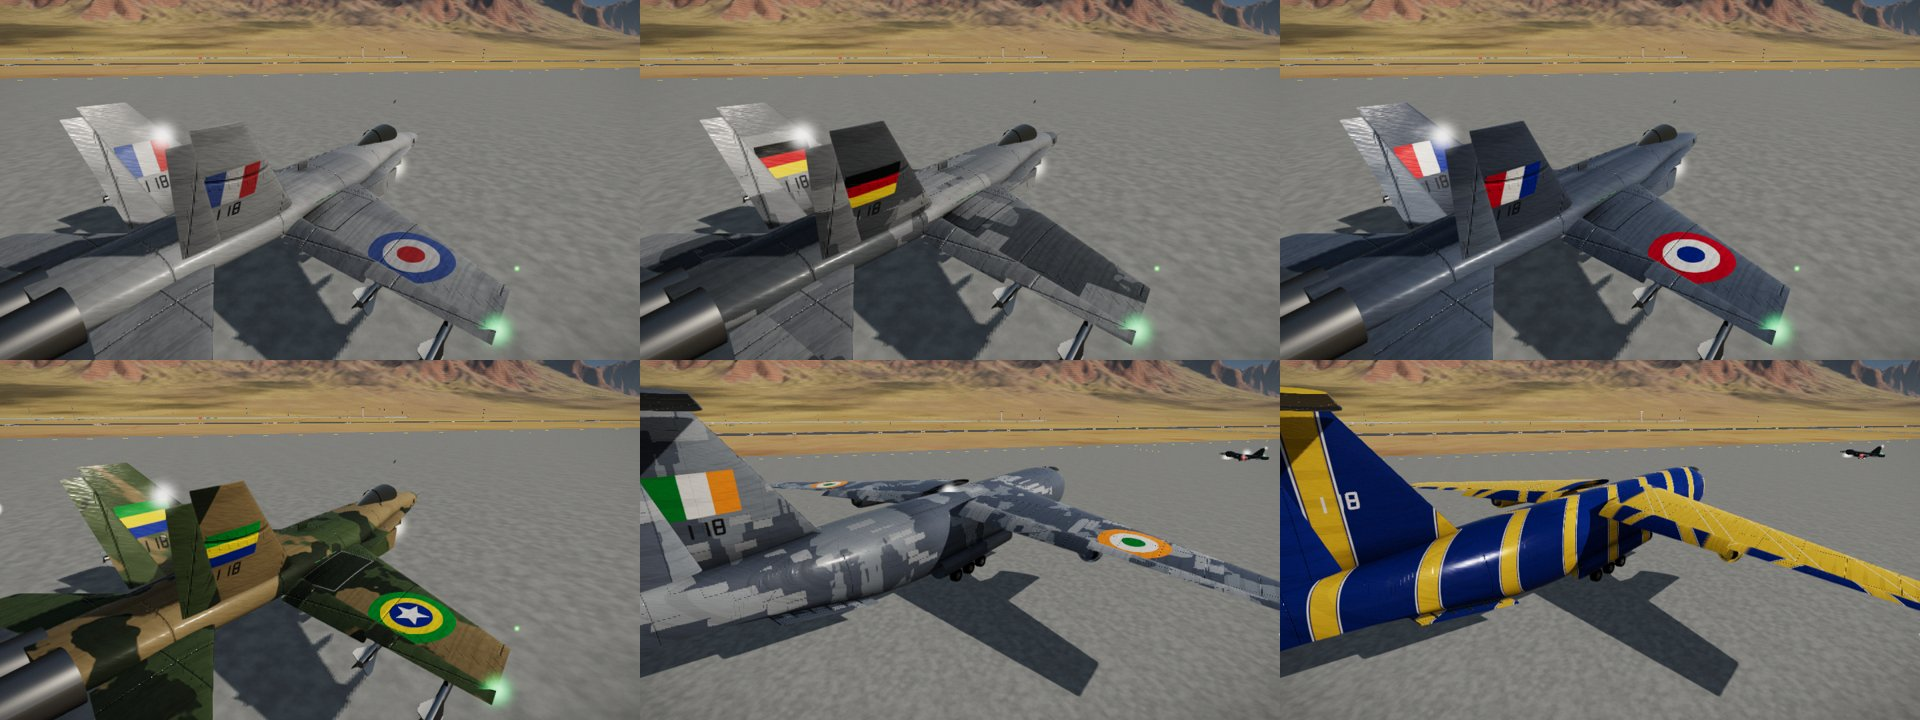
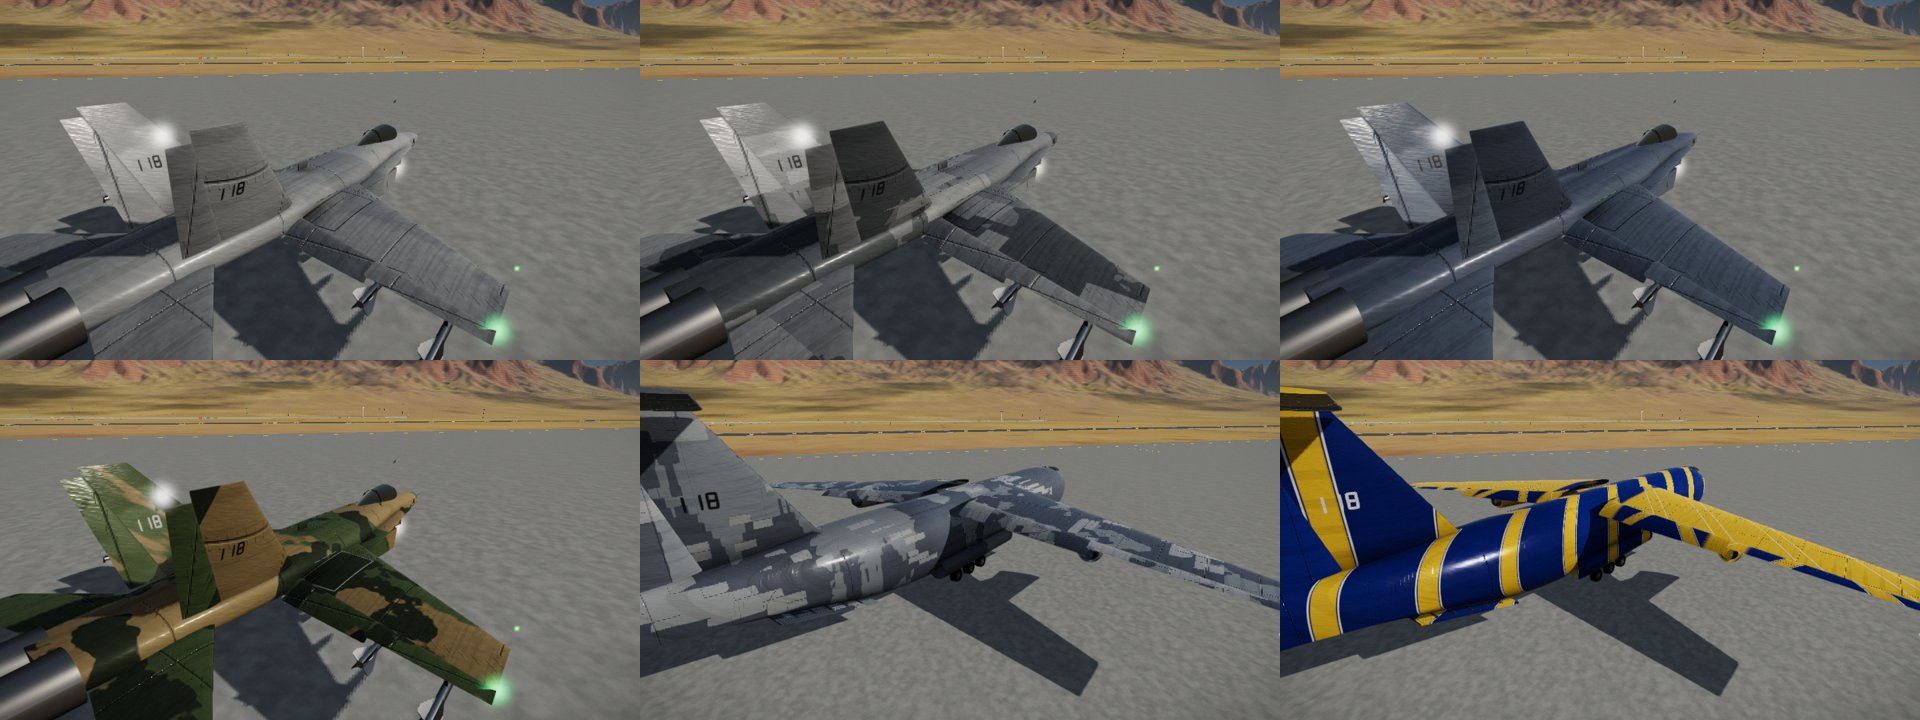
Remove all country flags and national insignia from the paint schemes (stencils and numbers only)

diff --git a/src/render/Skins.hpp b/src/render/Skins.hpp
@@ -10,11 +10,8 @@ enum class CamoPattern { TwoTone = 0, Splinter = 1, Woodland = 2, Digital = 3, S
                          CounterShade = 5, Shard = 6, Demo = 7, Metal = 8, Carbon = 9,
                          Armor = 10, Circuit = 11, HexVector = 12 };
 
-// Markings are generic, air-force-INSPIRED designs drawn procedurally in the jet shader. They are
-// not reproductions of any service's official artwork.
-enum class Insignia { None = 0, Roundel = 1, StarRoundel = 2, StarBar = 3, Cross = 4 };
-enum class FinFlash { None = 0, Vertical = 1, Horizontal = 2, Roundel = 3, Code = 4, VerticalOuter = 5 };
-
+// Markings are stencils only (fin and nose numbers, wing walkways), drawn in the jet shader: no
+// national insignia, roundels or flags.
 struct Skin {
     const char* name;
     Vector3 a, b, c;      // base, second and third colour
@@ -22,9 +19,8 @@ struct Skin {
     float roughness;
     float metal = 0.12f;            // metalness of the paint
     Vector3 glow{0, 0, 0};          // emissive accent colour (linear, HDR) for circuit / seam patterns
-    Insignia insignia = Insignia::None;  // national-style marking on the wings
-    FinFlash fin = FinFlash::None;       // fin marking
-    Vector3 m0{0, 0, 0}, m1{0, 0, 0}, m2{0, 0, 0};   // marking colours (outer, middle, inner / front, mid, rear)
+    bool noseNumbers = false;       // service schemes: a two-digit number on the nose as well
+    Vector3 stencil{0, 0, 0};       // stencil colour (0 = automatic contrast)
 };
 
 constexpr int kSkinCount = 40;
@@ -59,40 +55,24 @@ inline const Skin& skin(int i) {
         {"GOLD TITAN", {0.70f, 0.47f, 0.13f}, {0.10f, 0.10f, 0.11f}, {0.03f, 0.03f, 0.03f}, CamoPattern::Armor, 0.22f, 0.8f, {1.2f, 1.0f, 0.6f}},
         {"CARBON VOLT", {0.018f, 0.019f, 0.021f}, {0.05f, 0.052f, 0.056f}, {0.1f, 0.6f, 1.0f}, CamoPattern::Carbon, 0.26f, 0.12f, {0.3f, 1.4f, 3.2f}},
         // air-force-inspired service schemes with markings and stencils (generic designs)
-        {"USAF AIR DOMINANCE", {0.30f, 0.315f, 0.33f}, {0.17f, 0.18f, 0.19f}, {0.13f, 0.14f, 0.15f}, CamoPattern::CounterShade, 0.4f, 0.12f, {0, 0, 0},
-         Insignia::StarBar, FinFlash::Code, {0.10f, 0.105f, 0.11f}, {0.36f, 0.37f, 0.38f}, {0.10f, 0.105f, 0.11f}},
-        {"USN TACTICAL GREY", {0.26f, 0.27f, 0.285f}, {0.16f, 0.17f, 0.18f}, {0.0f, 0.0f, 0.0f}, CamoPattern::TwoTone, 0.42f, 0.12f, {0, 0, 0},
-         Insignia::StarBar, FinFlash::Code, {0.09f, 0.095f, 0.10f}, {0.40f, 0.41f, 0.42f}, {0.09f, 0.095f, 0.10f}},
-        {"USN HERITAGE", {0.50f, 0.51f, 0.52f}, {0.34f, 0.35f, 0.36f}, {0.0f, 0.0f, 0.0f}, CamoPattern::CounterShade, 0.3f, 0.12f, {0, 0, 0},
-         Insignia::StarBar, FinFlash::Code, {0.02f, 0.04f, 0.16f}, {0.80f, 0.80f, 0.80f}, {0.55f, 0.03f, 0.03f}},
-        {"RAF AIR DEFENCE", {0.24f, 0.25f, 0.265f}, {0.31f, 0.32f, 0.33f}, {0.0f, 0.0f, 0.0f}, CamoPattern::TwoTone, 0.42f, 0.12f, {0, 0, 0},
-         Insignia::Roundel, FinFlash::Vertical, {0.10f, 0.14f, 0.30f}, {0.45f, 0.45f, 0.46f}, {0.38f, 0.07f, 0.07f}},
-        {"LUFTWAFFE GREY", {0.21f, 0.22f, 0.235f}, {0.12f, 0.13f, 0.14f}, {0.30f, 0.31f, 0.32f}, CamoPattern::Splinter, 0.45f, 0.12f, {0, 0, 0},
-         Insignia::Cross, FinFlash::Horizontal, {0.015f, 0.015f, 0.015f}, {0.70f, 0.70f, 0.70f}, {0.0f, 0.0f, 0.0f}},
-        {"FRENCH AIR BLUE", {0.17f, 0.20f, 0.25f}, {0.10f, 0.12f, 0.16f}, {0.27f, 0.30f, 0.34f}, CamoPattern::CounterShade, 0.38f, 0.12f, {0, 0, 0},
-         Insignia::Roundel, FinFlash::Vertical, {0.55f, 0.03f, 0.04f}, {0.78f, 0.78f, 0.78f}, {0.02f, 0.06f, 0.30f}},
-        {"INDIAN AIR SPLINTER", {0.26f, 0.29f, 0.33f}, {0.13f, 0.15f, 0.19f}, {0.38f, 0.40f, 0.43f}, CamoPattern::Splinter, 0.45f, 0.12f, {0, 0, 0},
-         Insignia::Roundel, FinFlash::VerticalOuter, {0.85f, 0.32f, 0.03f}, {0.78f, 0.78f, 0.78f}, {0.03f, 0.25f, 0.05f}},
-        {"BRAZILIAN JUNGLE", {0.10f, 0.13f, 0.07f}, {0.27f, 0.21f, 0.12f}, {0.05f, 0.06f, 0.04f}, CamoPattern::Woodland, 0.55f, 0.12f, {0, 0, 0},
-         Insignia::StarRoundel, FinFlash::Horizontal, {0.02f, 0.30f, 0.06f}, {0.80f, 0.62f, 0.02f}, {0.02f, 0.06f, 0.30f}},
+        {"USAF AIR DOMINANCE", {0.30f, 0.315f, 0.33f}, {0.17f, 0.18f, 0.19f}, {0.13f, 0.14f, 0.15f}, CamoPattern::CounterShade, 0.4f, 0.12f, {0, 0, 0}, true, {0, 0, 0}},
+        {"USN TACTICAL GREY", {0.26f, 0.27f, 0.285f}, {0.16f, 0.17f, 0.18f}, {0.0f, 0.0f, 0.0f}, CamoPattern::TwoTone, 0.42f, 0.12f, {0, 0, 0}, true, {0, 0, 0}},
+        {"USN HERITAGE", {0.50f, 0.51f, 0.52f}, {0.34f, 0.35f, 0.36f}, {0.0f, 0.0f, 0.0f}, CamoPattern::CounterShade, 0.3f, 0.12f, {0, 0, 0}, true, {0, 0, 0}},
+        {"RAF AIR DEFENCE", {0.24f, 0.25f, 0.265f}, {0.31f, 0.32f, 0.33f}, {0.0f, 0.0f, 0.0f}, CamoPattern::TwoTone, 0.42f, 0.12f, {0, 0, 0}, true, {0, 0, 0}},
+        {"LUFTWAFFE GREY", {0.21f, 0.22f, 0.235f}, {0.12f, 0.13f, 0.14f}, {0.30f, 0.31f, 0.32f}, CamoPattern::Splinter, 0.45f, 0.12f, {0, 0, 0}, true, {0, 0, 0}},
+        {"FRENCH AIR BLUE", {0.17f, 0.20f, 0.25f}, {0.10f, 0.12f, 0.16f}, {0.27f, 0.30f, 0.34f}, CamoPattern::CounterShade, 0.38f, 0.12f, {0, 0, 0}, true, {0, 0, 0}},
+        {"INDIAN AIR SPLINTER", {0.26f, 0.29f, 0.33f}, {0.13f, 0.15f, 0.19f}, {0.38f, 0.40f, 0.43f}, CamoPattern::Splinter, 0.45f, 0.12f, {0, 0, 0}, true, {0, 0, 0}},
+        {"BRAZILIAN JUNGLE", {0.10f, 0.13f, 0.07f}, {0.27f, 0.21f, 0.12f}, {0.05f, 0.06f, 0.04f}, CamoPattern::Woodland, 0.55f, 0.12f, {0, 0, 0}, true, {0, 0, 0}},
         // environment schemes
-        {"DIGITAL DESERT", {0.42f, 0.34f, 0.22f}, {0.27f, 0.20f, 0.12f}, {0.55f, 0.47f, 0.34f}, CamoPattern::Digital, 0.55f, 0.12f, {0, 0, 0},
-         Insignia::None, FinFlash::Code, {0.08f, 0.07f, 0.05f}, {0, 0, 0}, {0, 0, 0}},
-        {"ARCTIC DIGITAL", {0.70f, 0.72f, 0.74f}, {0.38f, 0.40f, 0.43f}, {0.18f, 0.19f, 0.21f}, CamoPattern::Digital, 0.5f, 0.12f, {0, 0, 0},
-         Insignia::None, FinFlash::Code, {0.08f, 0.08f, 0.09f}, {0, 0, 0}, {0, 0, 0}},
-        {"FOREST SPLINTER", {0.12f, 0.15f, 0.08f}, {0.05f, 0.07f, 0.04f}, {0.22f, 0.20f, 0.12f}, CamoPattern::Splinter, 0.6f, 0.12f, {0, 0, 0},
-         Insignia::None, FinFlash::Code, {0.02f, 0.02f, 0.02f}, {0, 0, 0}, {0, 0, 0}},
-        {"NIGHT STEALTH", {0.03f, 0.032f, 0.038f}, {0.012f, 0.013f, 0.016f}, {0.055f, 0.06f, 0.07f}, CamoPattern::Shard, 0.3f, 0.2f, {0, 0, 0},
-         Insignia::StarBar, FinFlash::Code, {0.05f, 0.05f, 0.055f}, {0.10f, 0.10f, 0.11f}, {0.05f, 0.05f, 0.055f}},
-        {"TIGER MEET", {0.62f, 0.36f, 0.05f}, {0.02f, 0.02f, 0.02f}, {0.80f, 0.78f, 0.70f}, CamoPattern::Stripes, 0.32f, 0.12f, {0, 0, 0},
-         Insignia::None, FinFlash::Code, {0.02f, 0.02f, 0.02f}, {0, 0, 0}, {0, 0, 0}},
-        {"OCEAN SPLINTER", {0.10f, 0.15f, 0.22f}, {0.05f, 0.08f, 0.12f}, {0.20f, 0.26f, 0.32f}, CamoPattern::Splinter, 0.4f, 0.12f, {0, 0, 0},
-         Insignia::None, FinFlash::Code, {0.70f, 0.70f, 0.72f}, {0, 0, 0}, {0, 0, 0}},
+        {"DIGITAL DESERT", {0.42f, 0.34f, 0.22f}, {0.27f, 0.20f, 0.12f}, {0.55f, 0.47f, 0.34f}, CamoPattern::Digital, 0.55f, 0.12f, {0, 0, 0}, false, {0.08f, 0.07f, 0.05f}},
+        {"ARCTIC DIGITAL", {0.70f, 0.72f, 0.74f}, {0.38f, 0.40f, 0.43f}, {0.18f, 0.19f, 0.21f}, CamoPattern::Digital, 0.5f, 0.12f, {0, 0, 0}, false, {0.08f, 0.08f, 0.09f}},
+        {"FOREST SPLINTER", {0.12f, 0.15f, 0.08f}, {0.05f, 0.07f, 0.04f}, {0.22f, 0.20f, 0.12f}, CamoPattern::Splinter, 0.6f, 0.12f, {0, 0, 0}, false, {0.02f, 0.02f, 0.02f}},
+        {"NIGHT STEALTH", {0.03f, 0.032f, 0.038f}, {0.012f, 0.013f, 0.016f}, {0.055f, 0.06f, 0.07f}, CamoPattern::Shard, 0.3f, 0.2f, {0, 0, 0}, true, {0, 0, 0}},
+        {"TIGER MEET", {0.62f, 0.36f, 0.05f}, {0.02f, 0.02f, 0.02f}, {0.80f, 0.78f, 0.70f}, CamoPattern::Stripes, 0.32f, 0.12f, {0, 0, 0}, false, {0.02f, 0.02f, 0.02f}},
+        {"OCEAN SPLINTER", {0.10f, 0.15f, 0.22f}, {0.05f, 0.08f, 0.12f}, {0.20f, 0.26f, 0.32f}, CamoPattern::Splinter, 0.4f, 0.12f, {0, 0, 0}, false, {0.70f, 0.70f, 0.72f}},
         // demonstration schemes (original designs)
-        {"DEMO BLUE GOLD", {0.02f, 0.05f, 0.22f}, {0.75f, 0.50f, 0.05f}, {0.80f, 0.80f, 0.82f}, CamoPattern::Demo, 0.22f, 0.15f, {0, 0, 0},
-         Insignia::None, FinFlash::Code, {0.80f, 0.80f, 0.82f}, {0, 0, 0}, {0, 0, 0}},
-        {"DEMO SUNBURST", {0.80f, 0.80f, 0.82f}, {0.85f, 0.22f, 0.02f}, {0.02f, 0.02f, 0.03f}, CamoPattern::Demo, 0.22f, 0.15f, {0, 0, 0},
-         Insignia::None, FinFlash::Code, {0.02f, 0.02f, 0.03f}, {0, 0, 0}, {0, 0, 0}},
+        {"DEMO BLUE GOLD", {0.02f, 0.05f, 0.22f}, {0.75f, 0.50f, 0.05f}, {0.80f, 0.80f, 0.82f}, CamoPattern::Demo, 0.22f, 0.15f, {0, 0, 0}, false, {0.80f, 0.80f, 0.82f}},
+        {"DEMO SUNBURST", {0.80f, 0.80f, 0.82f}, {0.85f, 0.22f, 0.02f}, {0.02f, 0.02f, 0.03f}, CamoPattern::Demo, 0.22f, 0.15f, {0, 0, 0}, false, {0.02f, 0.02f, 0.03f}},
     };
     return k[(i >= 0 && i < kSkinCount) ? i : 0];
 }

diff --git a/src/render/Shaders.hpp b/src/render/Shaders.hpp
@@ -547,12 +547,9 @@ uniform vec4 uFinMark;      // x, y, |z|, radius
 uniform float uFinTan;
 uniform vec4 uNoseMark;     // x, y, digit height, fuselage half-width
 uniform vec4 uWalk;         // root |z|, front x, rear x, outboard |z|
-uniform float uInsignia;    // 0 none, 1 roundel, 2 roundel + star, 3 star-and-bar, 4 cross
-uniform float uFinFlash;    // 0 none, 1 vertical (inner colour leads), 2 horizontal, 3 roundel, 4 code only, 5 vertical (outer leads)
+uniform float uNoseNumbers; // 1: service schemes also carry a two-digit nose number
 uniform float uSerial;      // airframe number (0 = none)
-uniform vec3 uMark0;
-uniform vec3 uMark1;
-uniform vec3 uMark2;
+uniform vec3 uMark0;        // stencil colour (0 = automatic: dark on light paint, light on dark)
 uniform vec3 uPaintB;
 uniform vec3 uPaintC;
 uniform float uCamo;        // pattern: 0 two-tone, 1 splinter, 2 woodland, 3 digital, 4 stripes,
@@ -589,48 +586,6 @@ vec3 envLight(vec3 r, float rough) {
 
 
 // ---- markings -------------------------------------------------------------------------------
-float sdStar5(vec2 p, float r, float rf) {
-    const vec2 k1 = vec2(0.809016994375, -0.587785252292);
-    const vec2 k2 = vec2(-k1.x, k1.y);
-    p.x = abs(p.x);
-    p -= 2.0 * max(dot(k1, p), 0.0) * k1;
-    p -= 2.0 * max(dot(k2, p), 0.0) * k2;
-    p.x = abs(p.x);
-    p.y -= r;
-    vec2 ba = rf * vec2(-k1.y, k1.x) - vec2(0.0, 1.0);
-    float h = clamp(dot(p, ba) / dot(ba, ba), 0.0, r);
-    return length(p - ba * h) * sign(p.y * ba.x - p.x * ba.y);
-}
-// insignia colour at q (units of the marking radius, y = forward); a = coverage
-vec4 insignia(vec2 q, float type) {
-    float d = length(q);
-    if (type > 3.5) {   // cross: dark arms with light edges
-        vec2 a = abs(q);
-        float arm = min(max(a.x - 0.95, a.y - 0.24), max(a.y - 0.95, a.x - 0.24));
-        float edge = min(max(a.x - 1.0, a.y - 0.36), max(a.y - 1.0, a.x - 0.36));
-        if (arm < 0.0) return vec4(uMark0, 1.0);
-        if (edge < 0.0) return vec4(uMark1, 1.0);
-        return vec4(0.0);
-    }
-    if (type > 2.5) {   // star in a disc, flanked by bars with a centre stripe
-        vec2 qq = q * 1.55;
-        float dd = length(qq);
-        if (dd < 1.0) return vec4(sdStar5(qq, 0.95, 0.38) < 0.0 ? uMark1 : uMark0, 1.0);
-        vec2 a = vec2(abs(qq.x), qq.y);
-        if (a.x < 2.05 && abs(a.y) < 0.5) {
-            if (a.x > 1.95 || abs(a.y) > 0.4) return vec4(uMark0, 1.0);
-            return vec4(abs(a.y) < 0.14 ? uMark2 : uMark1, 1.0);
-        }
-        return vec4(0.0);
-    }
-    if (d > 1.0) return vec4(0.0);
-    if (type > 1.5) {   // roundel with a star in the centre
-        if (d > 0.72) return vec4(uMark0, 1.0);
-        if (d > 0.5) return vec4(uMark1, 1.0);
-        return vec4(sdStar5(q, 0.42, 0.4) < 0.0 ? vec3(0.8) : uMark2, 1.0);
-    }
-    return vec4(d > 0.66 ? uMark0 : (d > 0.33 ? uMark1 : uMark2), 1.0);
-}
 // seven-segment digit in a 0.6 x 1 cell
 float segDigit(vec2 p, int n) {
     if (p.x < 0.0 || p.x > 0.6 || p.y < 0.0 || p.y > 1.0) return 0.0;
@@ -784,41 +739,18 @@ void main() {
                 float e = min(min(az - uWalk.x, uWalk.w - az), min(uWalk.y - vObj.x, vObj.x - uWalk.z));
                 paint = mix(paint, stencil, (1.0 - smoothstep(0.025, 0.045, e)) * 0.8);
             }
-            // wing insignia: upper and lower surfaces (star-and-bar: upper left, lower right)
-            if (uInsignia > 0.5 && abs(on.y) > 0.45 && abs(vObj.y - uWingMark.y) < 0.9) {
-                bool show = uInsignia < 2.5 || (on.y > 0.0) == (vObj.z < 0.0);
-                if (show) {
-                    vec4 ins = insignia(vec2(az - uWingMark.z, vObj.x - uWingMark.x) / uWingMark.w, uInsignia);
-                    paint = mix(paint, ins.rgb, ins.a);
-                }
-            }
-            // fin: flash or small roundel, airframe number below it
+            if (dot(uMark0, uMark0) > 0.0) stencil = uMark0;
+            // fin: the airframe number at mid height
             float finH = vObj.y - uFinMark.y;
             float finZ = uFinMark.z + uFinTan * finH;
-            if (abs(on.z) > 0.5 && abs(az - finZ) < 0.35 && vObj.x < uWingMark.x) {
-                vec2 fq = vec2(vObj.x - uFinMark.x, finH) / uFinMark.w;
+            if (uSerial > 0.5 && abs(on.z) > 0.5 && abs(az - finZ) < 0.35 && vObj.x < uWingMark.x) {
                 float side = sign(on.z);
-                int ff = int(uFinFlash + 0.5);
-                if (ff == 3) {
-                    vec4 ins = insignia(fq.yx * 1.25, 1.0);
-                    paint = mix(paint, ins.rgb, ins.a);
-                } else if ((ff == 1 || ff == 2 || ff == 5) && abs(fq.x) < 1.05 && abs(fq.y) < 0.62) {
-                    if (ff == 1) paint = fq.x > 0.35 ? uMark2 : (fq.x > -0.35 ? uMark1 : uMark0);        // inner colour leads
-                    else if (ff == 5) paint = fq.x > 0.35 ? uMark0 : (fq.x > -0.35 ? uMark1 : uMark2);   // outer colour leads
-                    else if (dot(uMark2, uMark2) > 0.0) paint = fq.y > 0.2 ? uMark0 : (fq.y > -0.2 ? uMark1 : uMark2);
-                    else paint = fq.y > 0.2 ? uMark0 : (fq.y > -0.2 ? vec3(0.45, 0.02, 0.02) : vec3(0.75, 0.55, 0.03));
-                }
-                if (uSerial > 0.5) {
-                    float hgt = uFinMark.w * 0.5;
-                    vec2 np = vec2(side * (vObj.x - uFinMark.x) + 1.2 * hgt, finH + uFinMark.w * 1.25) / hgt;
-                    if (ff == 4) np.y -= 1.6;   // code-only fins: number at mid fin
-                    float mk = number(np, uSerial, 3);
-                    vec3 nc = ff == 4 && dot(uMark0, uMark0) > 0.0 ? uMark0 : stencil;
-                    paint = mix(paint, nc, mk);
-                }
+                float hgt = uFinMark.w * 0.5;
+                vec2 np = vec2(side * (vObj.x - uFinMark.x) + 1.2 * hgt, finH + uFinMark.w * 1.25) / hgt - vec2(0.0, 1.6);
+                paint = mix(paint, stencil, number(np, uSerial, 3));
             }
             // nose number (service schemes): two digits on the forward fuselage sides
-            if (uInsignia > 0.5 && uSerial > 0.5 && abs(on.z) > 0.55 && abs(vObj.x - uNoseMark.x) < uNoseMark.z * 1.2) {
+            if (uNoseNumbers > 0.5 && uSerial > 0.5 && abs(on.z) > 0.55 && abs(vObj.x - uNoseMark.x) < uNoseMark.z * 1.2) {
                 float side = sign(on.z);
                 vec2 np = vec2(side * (vObj.x - uNoseMark.x) + uNoseMark.z * 0.7, vObj.y - uNoseMark.y + uNoseMark.z * 0.5) / uNoseMark.z;
                 paint = mix(paint, stencil, number(np, mod(uSerial, 100.0), 2));

diff --git a/src/render/Renderer.cpp b/src/render/Renderer.cpp
@@ -71,8 +71,8 @@ Vector3 g_paintC{0, 0, 0};   // third camouflage colour for the jet drawn next
 float g_paintRough = 0.42f;
 float g_paintMetal = 0.12f;
 Vector3 g_paintGlow{0, 0, 0};
-float g_markIns = 0, g_markFin = 0, g_serial = 0;          // markings for the jet drawn next
-Vector3 g_mark0{0, 0, 0}, g_mark1{0, 0, 0}, g_mark2{0, 0, 0};
+float g_noseNumbers = 0, g_serial = 0;   // markings for the jet drawn next
+Vector3 g_mark0{0, 0, 0};
 long g_tris = 0;   // triangles submitted this frame (benchmark statistics)
 long g_draws = 0;
   // mesh draw calls submitted this frame (exact: every mesh goes through drawMeshC)
@@ -87,7 +87,7 @@ Vector3 paintFor(Team team, int skinIdx, const AircraftProfile& prof, Vector3& b
     g_paintRough = 0.42f;
     g_paintMetal = 0.12f;
     g_paintGlow = {0, 0, 0};
-    g_markIns = 0; g_markFin = 0;
+    g_noseNumbers = 0; g_mark0 = {0, 0, 0};
     if (skinIdx > 0) {
         const Skin& k = skin(skinIdx);
         b = k.b;
@@ -96,9 +96,8 @@ Vector3 paintFor(Team team, int skinIdx, const AircraftProfile& prof, Vector3& b
         g_paintRough = k.roughness;
         g_paintMetal = k.metal;
         g_paintGlow = k.glow;
-        g_markIns = static_cast<float>(static_cast<int>(k.insignia));
-        g_markFin = static_cast<float>(static_cast<int>(k.fin));
-        g_mark0 = k.m0; g_mark1 = k.m1; g_mark2 = k.m2;
+        g_noseNumbers = k.noseNumbers ? 1.0f : 0.0f;
+        g_mark0 = k.stencil;
         return k.a;
     }
     AirframeStyle st = prof.style;
@@ -1850,14 +1849,11 @@ void Renderer::drawJetModel(AirframeStyle style, const Matrix& M, Vector3 paintA
     jet_.setF("uFinTan", jm.finTan);
     jet_.setV4("uNoseMark", jm.noseMark);
     jet_.setV4("uWalk", jm.walk);
-    jet_.setF("uInsignia", g_markIns);
-    jet_.setF("uFinFlash", g_markFin);
+    jet_.setF("uNoseNumbers", g_noseNumbers);
     jet_.setF("uSerial", g_serial);
     jet_.setV3("uMark0", g_mark0);
-    jet_.setV3("uMark1", g_mark1);
-    jet_.setV3("uMark2", g_mark2);
     jet_.setF("uMarkOn", lod < 2 ? 1.0f : 0.0f);
-    g_markIns = 0; g_markFin = 0; g_serial = 0;
+    g_noseNumbers = 0; g_serial = 0; g_mark0 = {0, 0, 0};
     g_paintC = {0, 0, 0};
     g_paintRough = 0.42f;
     g_paintMetal = 0.12f;

diff --git a/README.md b/README.md
@@ -87,13 +87,13 @@ scripts (`build_mac.sh`, `run.sh`, `build_web.sh`) work as before.
   station, ammunition bunkers and helicopter shelters; towns get a hospital, warehouses, traffic
   signals, road signs and roadside bushes.
 * **40 paint schemes** — 16 new: service schemes *inspired by* US Air Force, US Navy, Royal Air
-  Force, Luftwaffe, French, Indian and Brazilian air arms (generic insignia, fin flashes, fin and
-  nose numbers, walkway stencils, all drawn in the shader; not copies of official artwork),
+  Force, Luftwaffe, French, Indian and Brazilian air arms (colours and patterns only, with fin and
+  nose numbers and walkway stencils drawn in the shader; no national insignia or flags),
   digital desert, arctic digital, forest splinter, night stealth, tiger meet, ocean splinter and
   two original demonstration schemes.
 * Free Flight, the 61-mission campaign and the Dogfight Arena are unchanged.
 
-![Air-force-inspired service schemes with generic markings](docs/screenshots/skins_service.jpg)
+![Air-force-inspired service schemes with stencils, no national markings](docs/screenshots/skins_service.jpg)
 
 ## New in v0.9
 
@@ -414,9 +414,9 @@ is a roadmap item. The Computer
 Vision Laboratory is planned, not implemented yet. Academy and campaign-location limits (Everest,
 sea for the carrier operations 5, 13 and 20, the combinations the test bots do not complete) are
 listed in [docs/TRAINING.md](docs/TRAINING.md#known-limits). The operations' 15-20 minute lengths
-are design estimates checked by a test bot, not by timed human play; v1.0 frame rates on the
-MacBook Air have not been measured yet. Paint markings are generic designs inspired by real air
-arms, not their official insignia.
+are design estimates checked by a test bot, not by timed human play; first MacBook Air
+measurements are in [docs/BENCHMARKS.md](docs/BENCHMARKS.md). Paint schemes carry stencils only:
+no national insignia or flags.
 
 ## License
 

diff --git a/docs/ROADMAP.md b/docs/ROADMAP.md
@@ -12,7 +12,7 @@ Legend: ✅ implemented and exercised · 🟡 partial / in progress · ⬜ plann
 | C-17 escort, airlift, airdrop, resupply; convoy, rescue, airbase, fleet, troops defence | ✅ | asset loss fails the operation |
 | F/A-18E, Typhoon, C-17 | ✅ | C-17 in Free Flight |
 | Living airbases, more military and urban props | ✅ | |
-| Air-force-inspired and environment / demo paint schemes, markings, stencils | ✅ | 16 new, 40 total |
+| Air-force-inspired and environment / demo paint schemes, stencils | ✅ | 16 new, 40 total; national insignia and flags removed |
 | Smarter AI (strike, hunting helicopters, break-off, squadron tactics) | ✅ | |
 | Existing modes kept (campaign, arena, free flight) | ✅ | tests unchanged and passing |
 | Bot flies every operation / fighter / mode | ✅ | 578 / 600 (17 lost fights, 5 other) |
